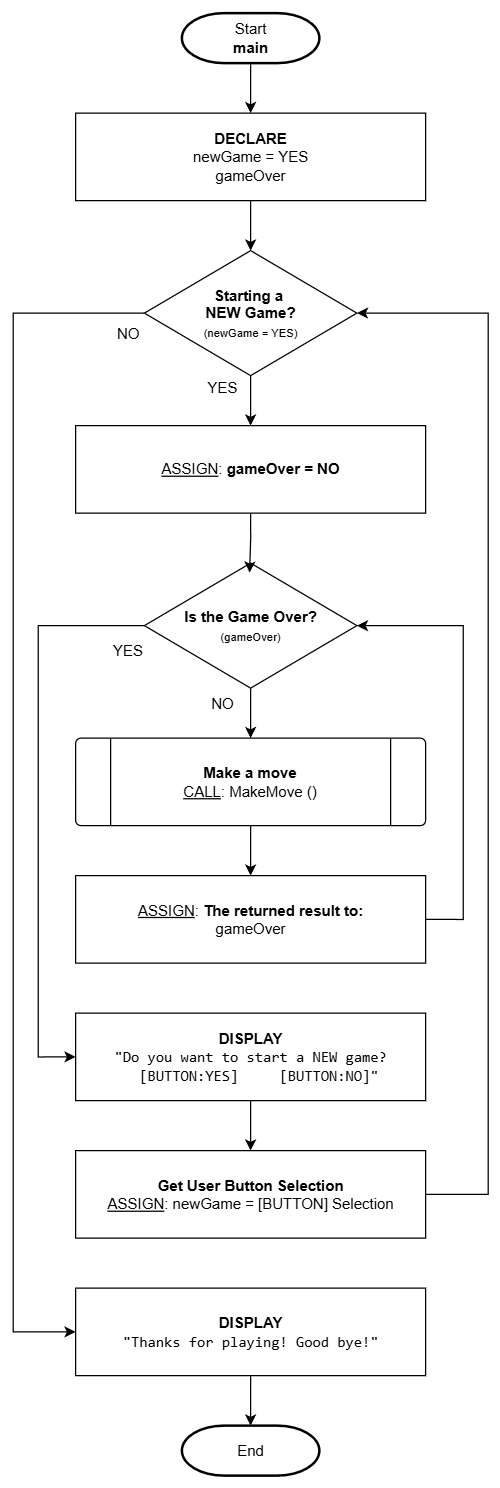
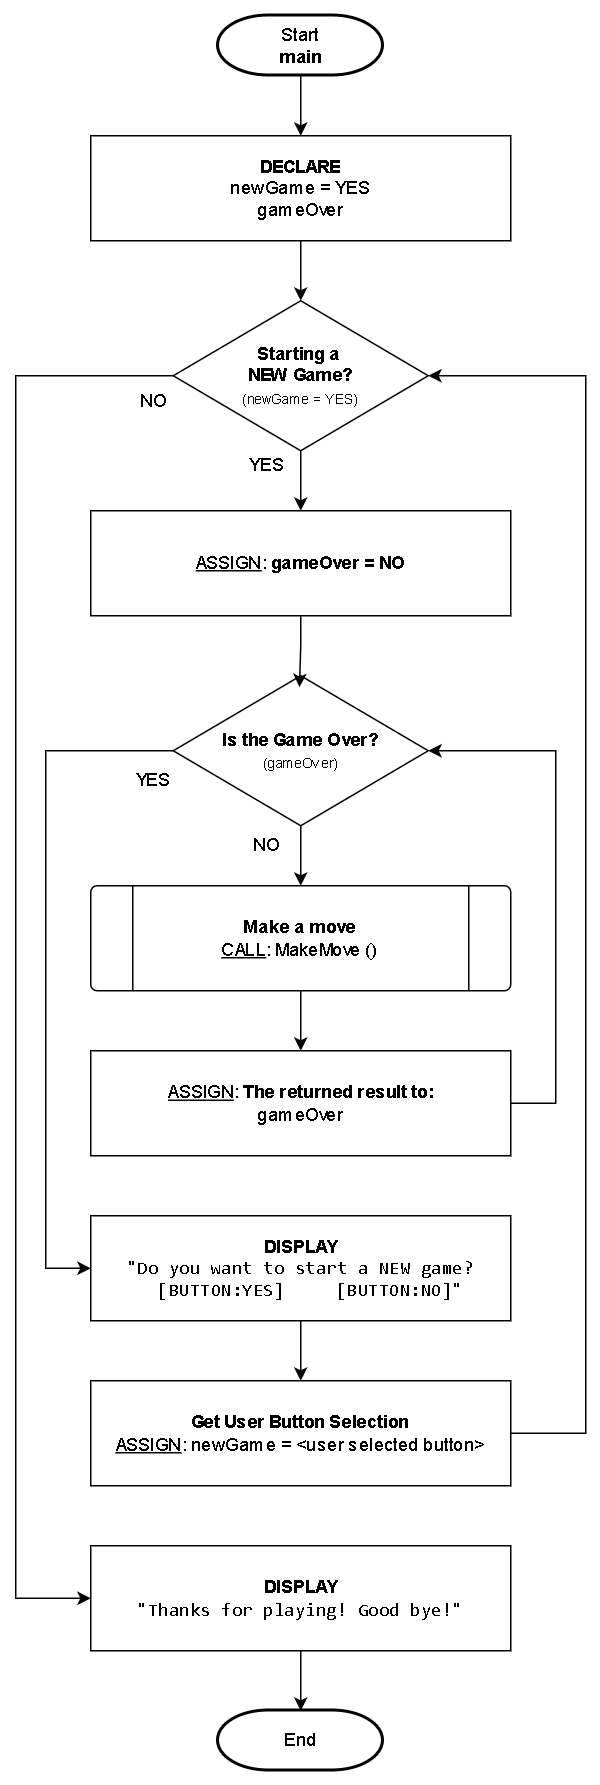
Updated flowchart and pseudocode iteration examples for consistency.

diff --git a/docs/logic-iteration.md b/docs/logic-iteration.md
@@ -53,7 +53,7 @@ Let's continue with the shopping list theme from the introduction. We want to cr
 > - This function prompts the user to enter as many items as they wish to a shopping list.
 > - The function logic details will be described in the pseudocode section example.
 
-![Image of a flowchart demonstrating iteration](../static/img/iterationOptional.png)
+<img src="../static/img/iterationOptional.png" alt="Image of a flowchart demonstrating iteration" width=350 />
 
 ### Pseudocode
 
@@ -79,18 +79,21 @@ CreateList()
 1. DECLARE:
       shoppingList
       itemCount = 0
+      addItem
 
 2. DISPLAY:
       "Do you want to add an item to the shopping list?
           [BUTTON: YES]     [BUTTON: NO]"
 
-3. Keep adding items to the shopping list - which button was selected?
-      A. YES:
+3. ASSIGN: addItem = <user selected button>
+
+4. Keep adding items to the shopping list - which button was selected?
+      A. YES (addItem=YES):
             1. CALL: AddItem (shoppingList)
             2. ASSIGN: Add 1 to itemCount
             3. REPEAT: from Step #2
 
-4. Does the shopping list have items?
+5. Does the shopping list have items?
       A. YES (itemCount > 0):
             1. DISPLAY:
                   "Shopping list ready! There are <itemCount> items."
@@ -98,7 +101,7 @@ CreateList()
             1. DISPLAY:
                   "Shopping list is empty! Don't go shopping!"
 
-5. End
+6. End
 ```
 
 - The repeating construct begins in **step #3**. This iteration may never be executed because it is dependent on the preceding answer to the question of adding an item to the shopping list. If the user selects the NO button the first time, then no items will be added to the list however, as long as the user selects the YES button it will continue iterating adding more items to the shopping list. As soon as the user selects the NO button, the iteration will stop.
@@ -131,7 +134,7 @@ Mandatory iteration found in most programming languages include:
 
 Let's modify the preceding OPTIONAL iteration flowchart example to be **MANDATORY iteration**. This change will **mandate the user to enter at least one shopping list** (unlike before where none was possible).
 
-![Image of a flowchart demonstrating iteration](../static/img/iterationMandatory.png)
+<img src="../static/img/iterationMandatory.png" alt="Image of a flowchart demonstrating iteration" width=350 />
 
 > Notice the user is forced to create at least one shopping list because the option of creating a shopping list was moved AFTER the logic that creates a list.
 
@@ -156,22 +159,26 @@ CreateList()
 1. DECLARE:
       shoppingList
       itemCount = 0
+      addItem
 
 2. CALL: AddItem (shoppingList)
+
 3. ASSIGN: Add 1 to itemCount
 
 4. DISPLAY:
       "Do you want to add another item to the shopping list?
           [BUTTON: YES]     [BUTTON: NO]"
 
-5. Keep adding items to the shopping list - which button was selected?
-      A. YES:
+5. ASSIGN: addItem = <user selected button>
+
+6. Keep adding items to the shopping list?
+      A. YES (addItem=YES):
             1. REPEAT: from Step #2
 
-6. DISPLAY:
+7. DISPLAY:
       "Shopping list ready! There are <itemCount> items."
 
-7. End
+8. End
 ```
 
 > No matter what, we want the user to **add at least one item to the shopping list** so we start with the logic that implements that. We don't ask the user for the option to add another item until **AFTER one has been added** and from there, the user can continue to add as many items as they wish (repeating from step #2).
@@ -184,7 +191,7 @@ The below example shows a main iteration for a game (outer/parent loop) and with
 
 ### Flowchart
 
-![Image of nested iteration for playing a game](../static/img/iterationNested.png)
+<img src="../static/img/iterationNested.png" alt="Image of nested iteration for playing a game" width="350">
 
 ### Pseudocode
 
@@ -219,7 +226,7 @@ main()
                   "Start a new game?
                   [BUTTON:YES]   [BUTTON:NO]"
 
-            4. ASSIGN: newGame = Selected BUTTON
+            4. ASSIGN: newGame = <user selected button>
             5. REPEAT: from Step #2
 
 3. DISPLAY:
